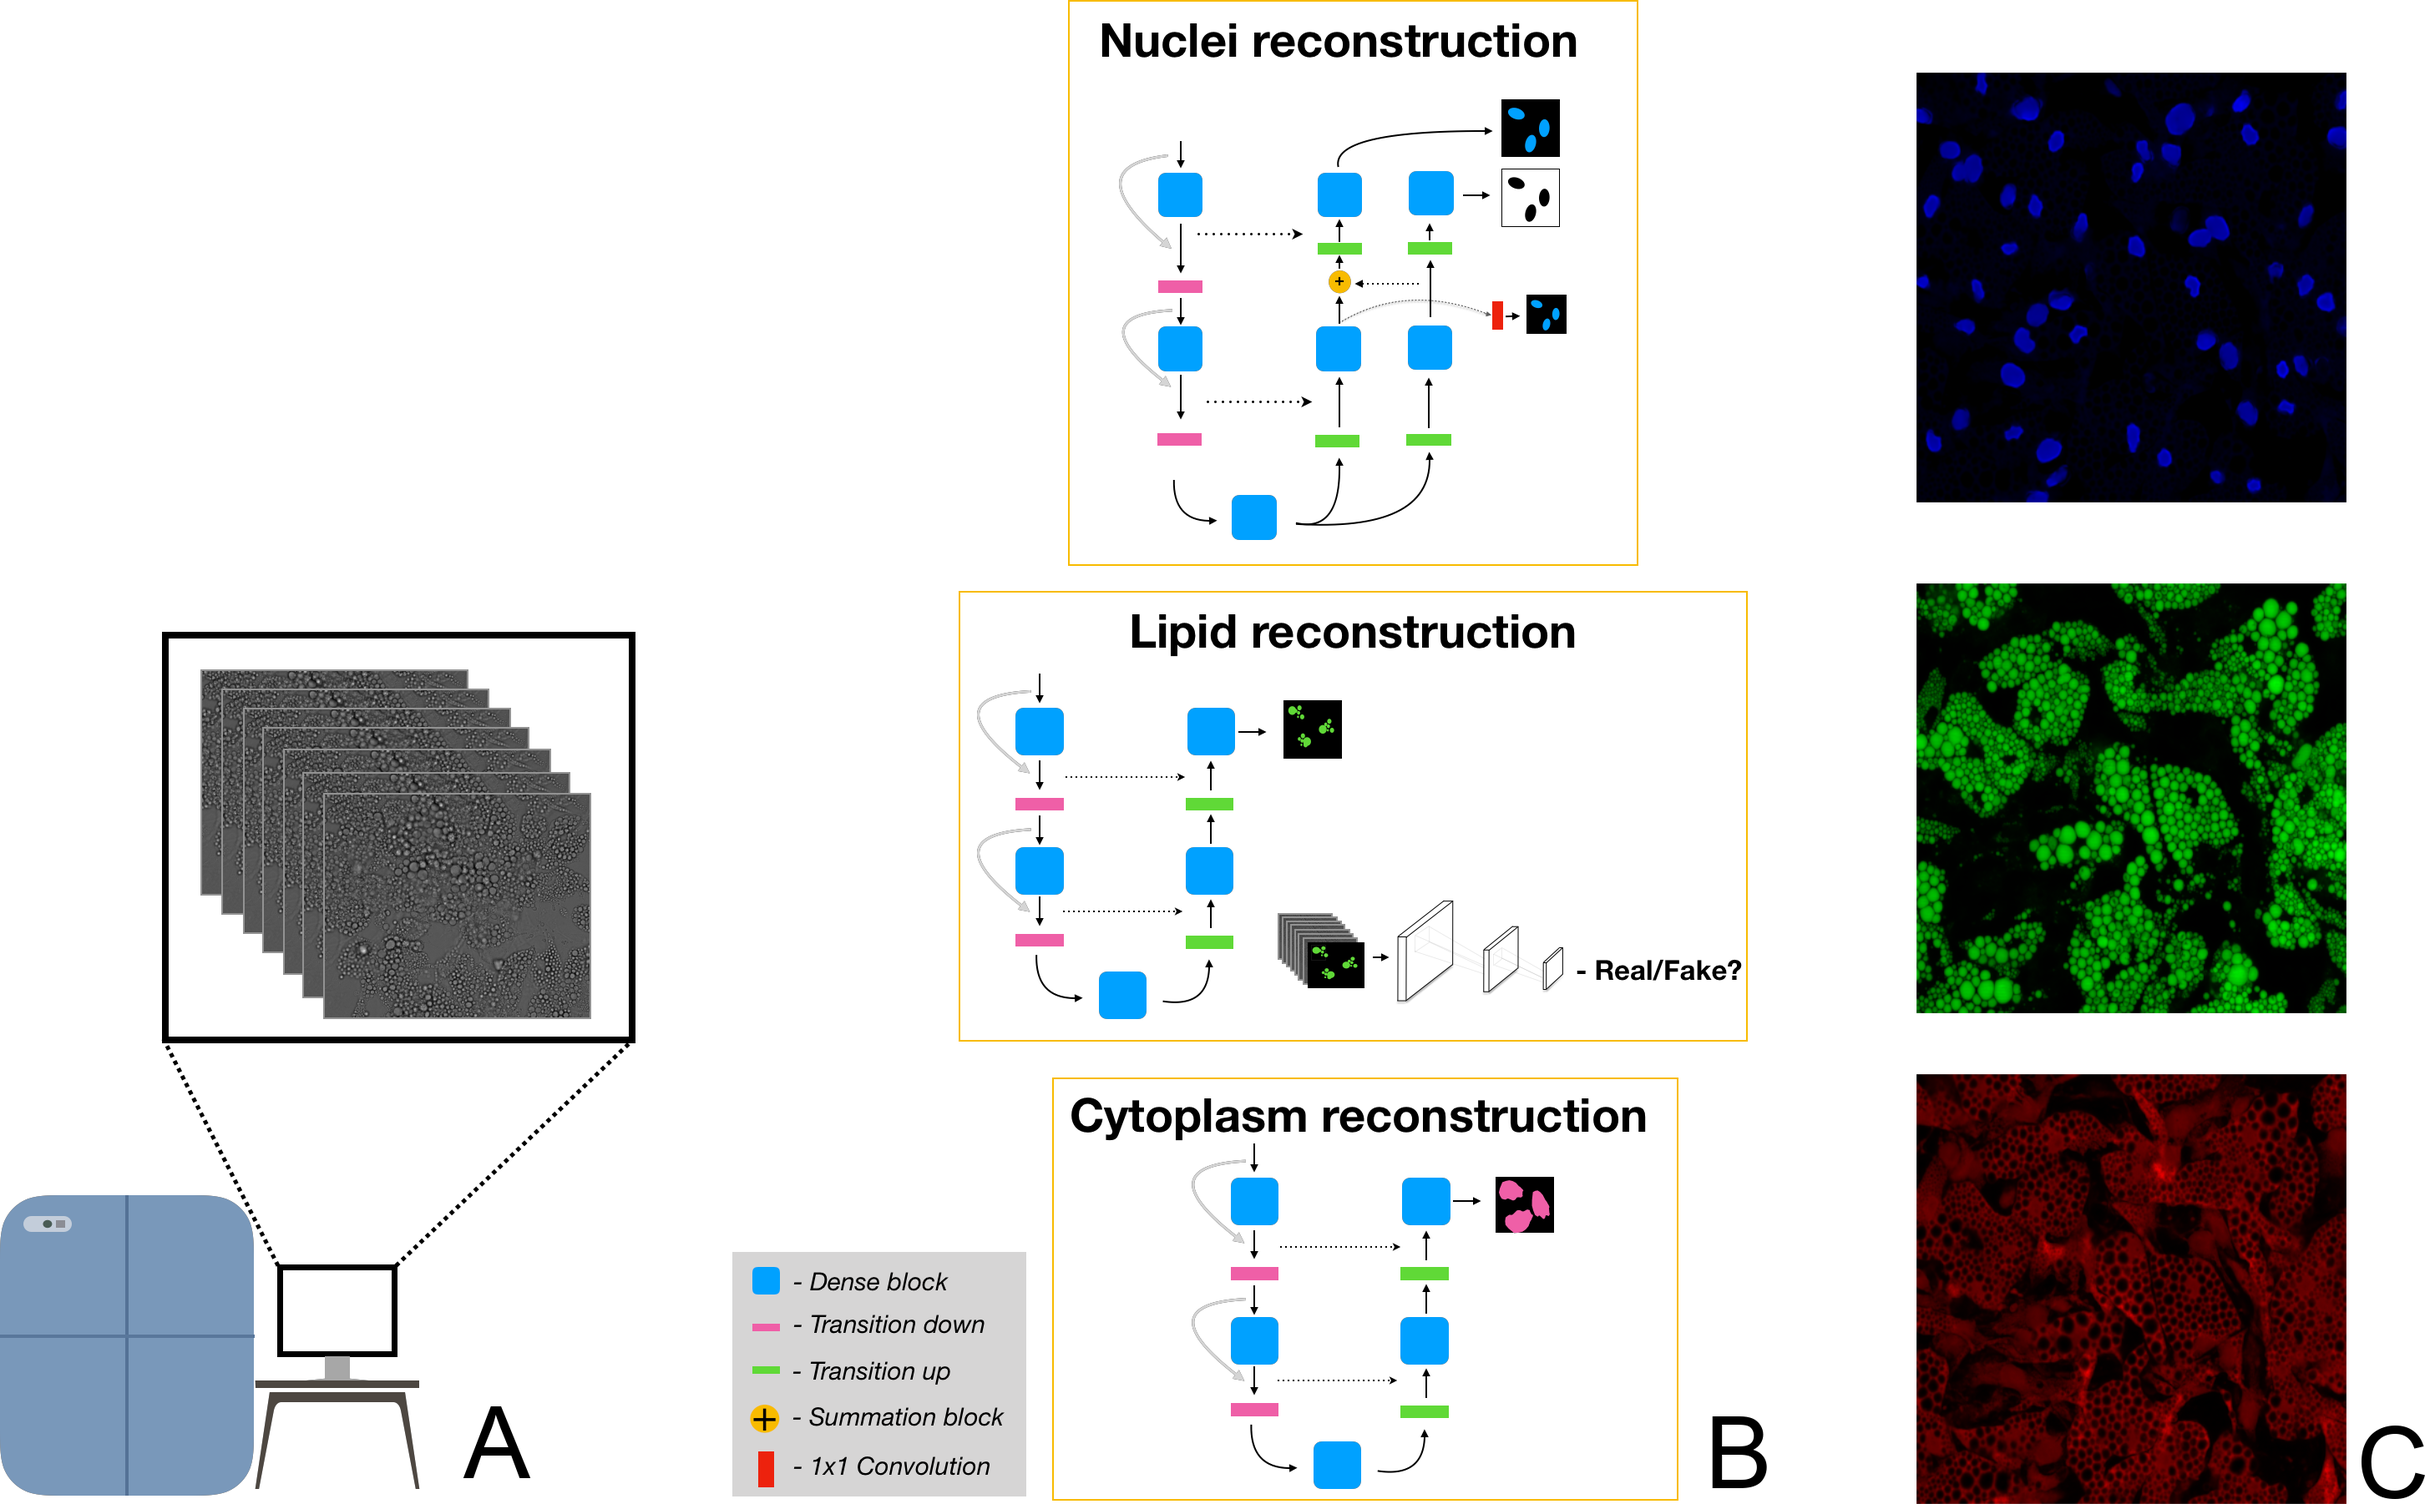
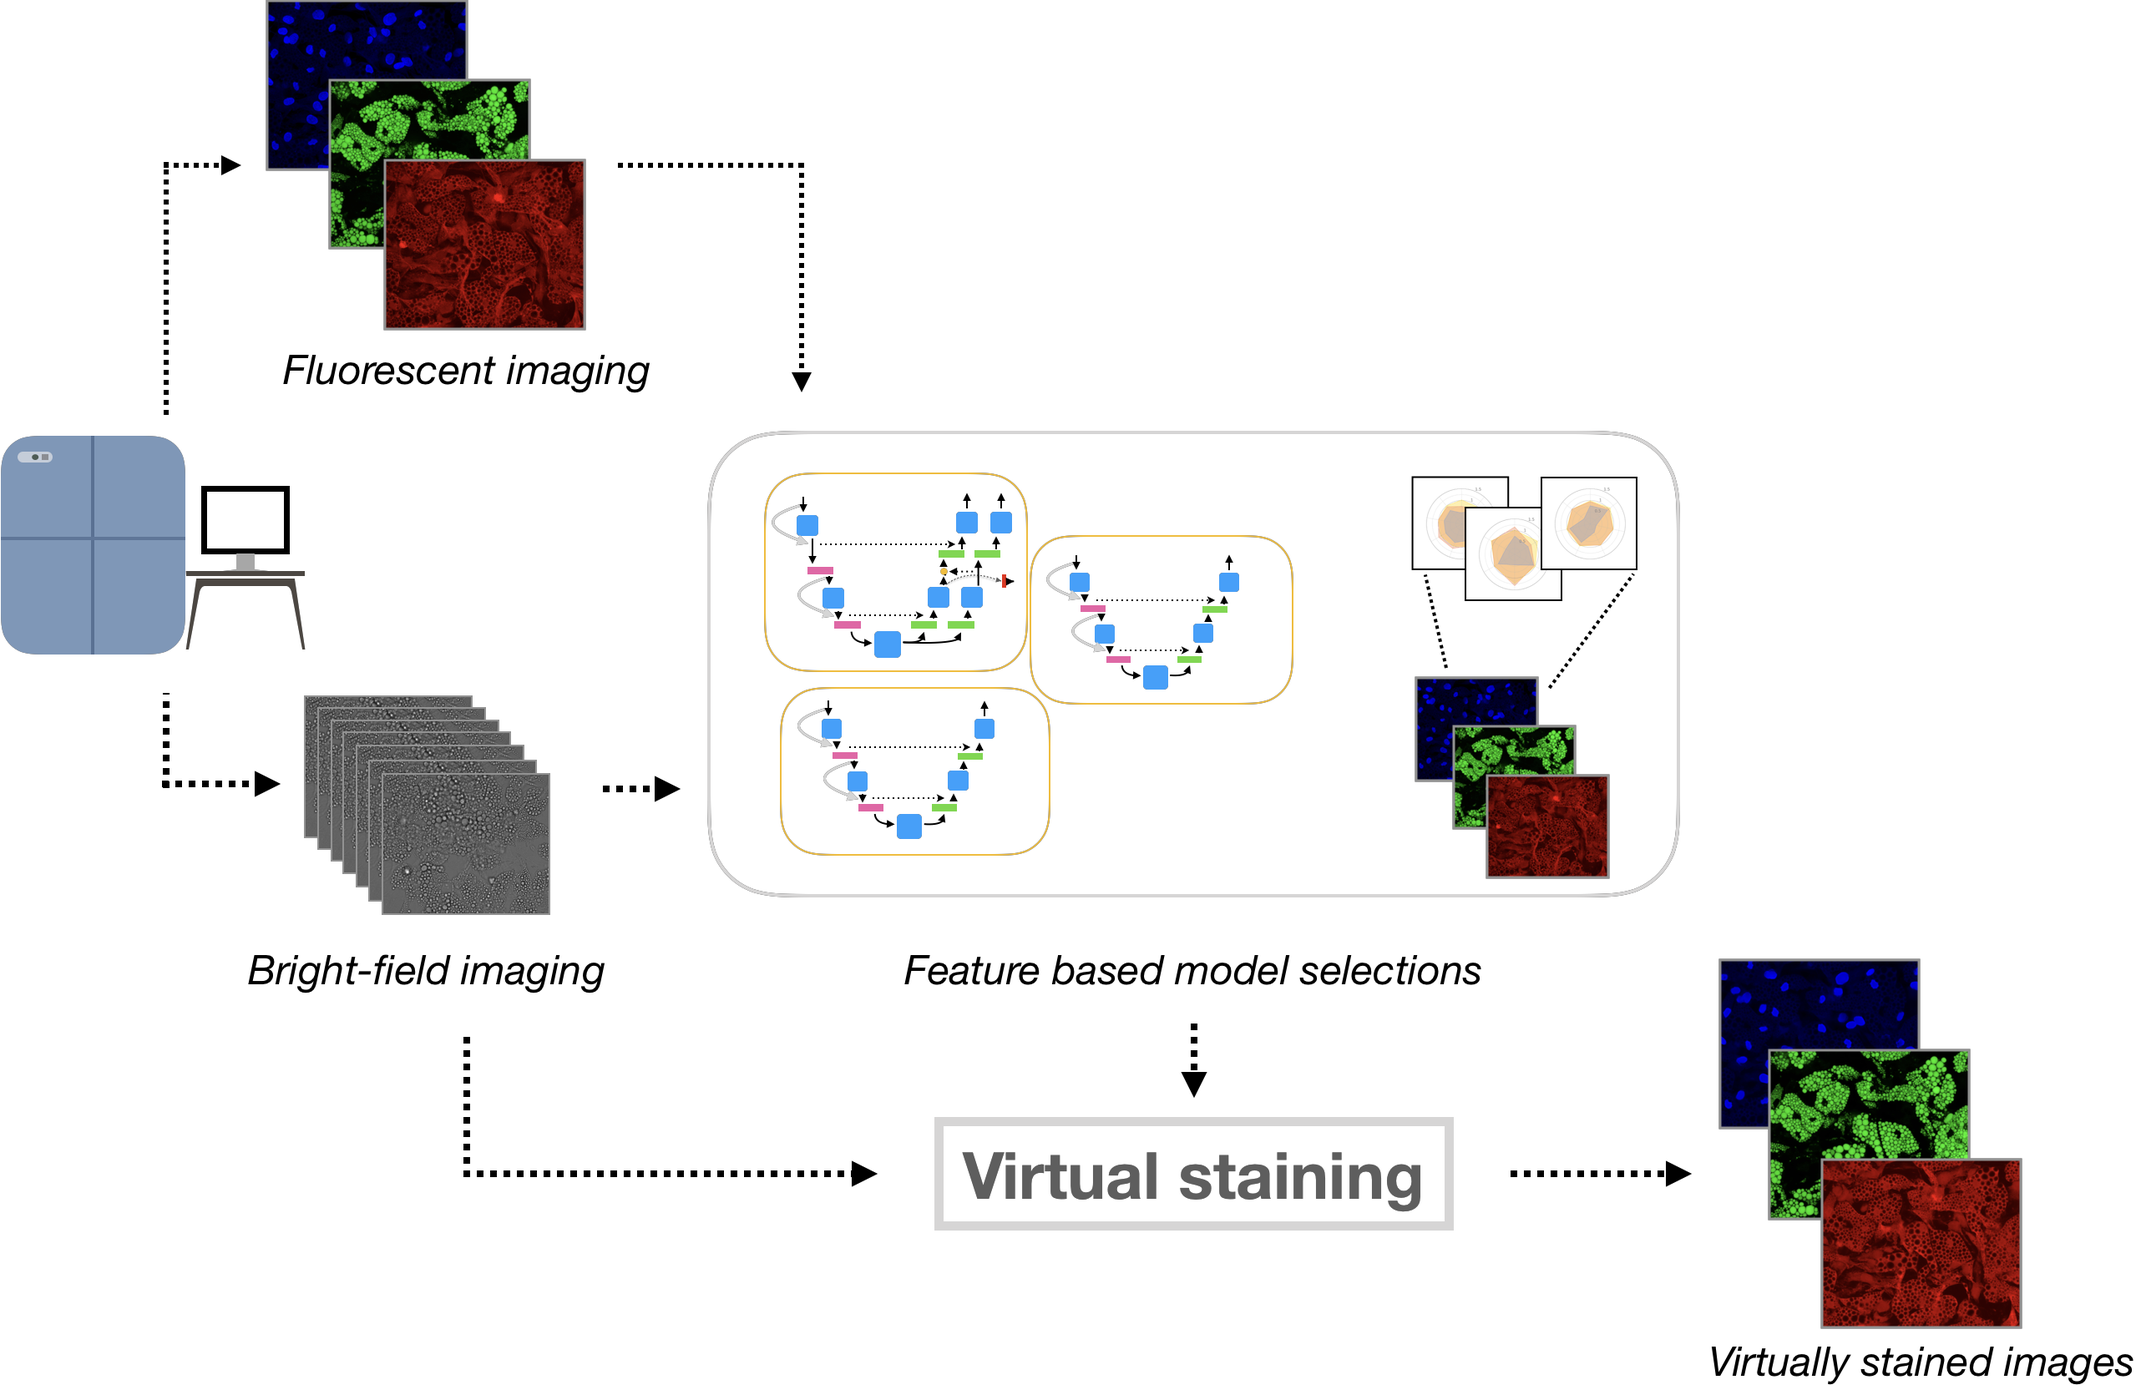
removed docker stuff and added new overview image

diff --git a/README.md b/README.md
@@ -8,7 +8,7 @@ In this repository we provide the code base that accompanies the paper:
 
 <p>
     <img src="overview.png" alt="drawing" style="width:1200px;"/>
-    <center>Proposed reconstruction methodology for fluorescent images. (A) Cell cultures imaged with bright-field microscopy. (B) Each fluorescent channel was reconstructed with a specialized neural network. The nuclei reconstruction model employed Learning Using Privileged Information (LUPI), where cell segmentation masks were utilized as privileged information. Lipid reconstruction made use of an adversarial training scheme and the cytoplasm reconstruction was based solely on the image reconstruction loss. (C) Reconstructed fluorescent images from bright-field.</center>
+    <center>Proposed method and workflow. Cell cultures are imaged by fluorescence and bright-field imaging. These images are used to train and compare specialized models for generating each stain, based on biologically relevant features. The selected models are then used to virtually stain bright-field images.</center>
 </p>
 
 <p>
@@ -25,70 +25,12 @@ The content and structure of the repo is given by the following:
 │   ├── data                : python scripts for loading the datasets required
 │   ├── loss                : for loss functions not included in PyTorch
 │   ├── model               : python scripts for the various neural networks
-│   ├── tester              : scripts requied when running the models in test mode
-│   ├── trainer             : scripts requied when running the models in train mode
+│   ├── test                : scripts requied when running the models in test mode
+│   ├── train               : scripts requied when running the models in train mode
 │   └── utils               : utility functions (e.g. for converting the images to numpy arrays for faster data loading)
-├── config
-│   ├── train               : .json files for running the models to reconstruct the three fluorescence channels
-│   │   ├── C1              : nuclei          
-│   │   ├── C2              : lipids
-│   │   └── C3              : cytoplasm
-│   └── test                : .json files for running the models in test mode for the three resolutions
-│                              (across all three fluorescence channels)
-├── docker                  : files for Docker image construction and running
+│
+├── config                  : .json files for running the models to reconstruct the three fluorescence channels
+│                       
 └── exp_stats               : .csv files for image statistics and train/test splits 
     
-```
-## Docker image
-On AZ server:
-
-### 1. Build the docker image if it doesn't exist
-`docker build -t 3h4m/haste .`
-
-### 2. Run training with docker
-`./run_with_docker.sh -c config.json`
-
-### 3. Run the shell with docker
-`docker run --shm-size=24gb -it --rm -v /home/group5/:/workspace 3h4m/haste bash`
-
----
-
-### Install docker
-`curl -sSL https://get.docker.com/ | sh`
-
-### Pull the image 
-`sudo docker pull 3h4m/haste`
-
-### Connect to the kernel
-`sudo docker run -it 3h4m/haste bash`
-
----
-
-## Running inference
-
-To run the inference you run ai_haste as a module while specifying which config file to use. All configs for inference are located in the "config/test" folder for the different magnifications. The module will run inference on all models (1 model per channel) at the same time and write the result in a pre-specified output folder.
-
-To begin, download the models and put them in the "models" folder. Then edit each config file in "configs/test" and specify the data path and the output path.
-```
-config
-│── "exp_folder":  <--- Path to output folder goes here            
-│   │
-│   │
-│── "data"             
-│   ├── "folder":"" <--- Path to data folder goes here
-```
-
-Inference is then executed by:
-```
-python3 -m ai_haste -c configs/test/test_20x.json 
-python3 -m ai_haste -c configs/test/test_40x.json 
-python3 -m ai_haste -c configs/test/test_60x.json 
-```
-## Training
-Training can be performed by changing selecting the data folders and magnifications and changing "run_mode" to "train" in the config and executed by
-
-```
-python3 -m ai_haste -c configs/train/C1/C1_20x.json 
-python3 -m ai_haste -c configs/train/C2/C2_20x_pretrain.json 
-python3 -m ai_haste -c configs/train/C1/C3_20x_pretrain.json 
 ```
